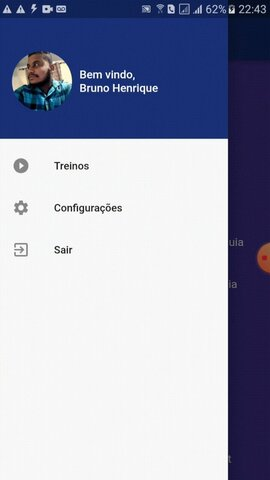
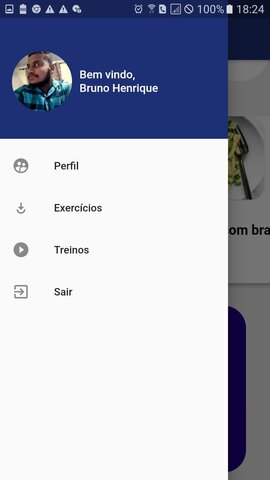
Update COmparasion image

diff --git a/docs/Arquitetura de Software/Reutilizacao/reutilizacao_WoCo.md b/docs/Arquitetura de Software/Reutilizacao/reutilizacao_WoCo.md
@@ -111,6 +111,13 @@ A reutilização de software não envolve somente fatores de desenvolvimento, co
 ![lista treino prototippo](./../../Base/1.1%20Projeto%20Não%20Orientado%20a%20Abordagens%20Específicas/prototipo/images/lista_treinos.jpg)&nbsp;&nbsp;&nbsp;&nbsp;
 ![lista treino app](./../img/lista_treino.jpg)
 
+![lista treino prototippo](./../../Base/1.1%20Projeto%20Não%20Orientado%20a%20Abordagens%20Específicas/prototipo/images/lista_treinos.jpg)&nbsp;&nbsp;&nbsp;&nbsp;
+![lista treino app](./../img/lista_exercicios.jpg)
+
+
+![barra lateral](./../../Base/1.1%20Projeto%20Não%20Orientado%20a%20Abordagens%20Específicas/prototipo/images/home.jpg)&nbsp;&nbsp;&nbsp;&nbsp;
+![barra lateral](./../img/home_final.jpg)
+
 
 
 ![add treino](./../../Base/1.1%20Projeto%20Não%20Orientado%20a%20Abordagens%20Específicas/prototipo/images/add_treino.jpg)&nbsp;&nbsp;&nbsp;&nbsp;
